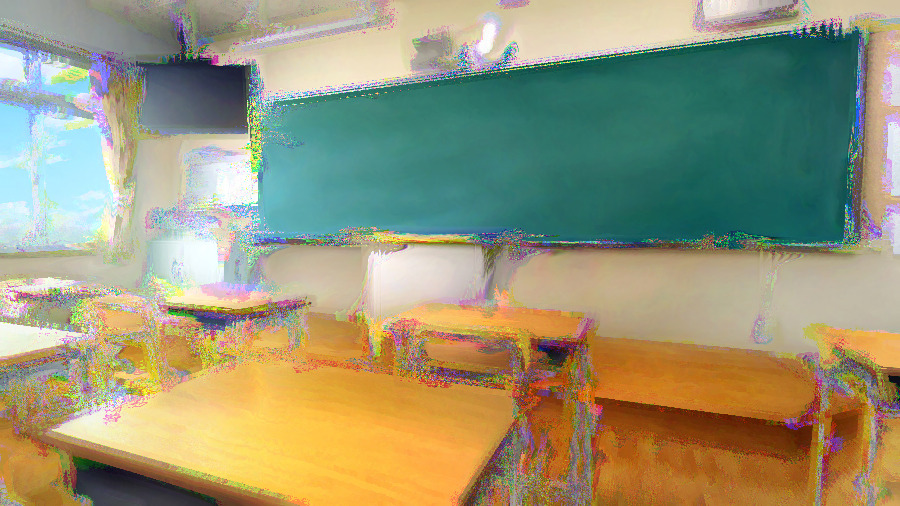
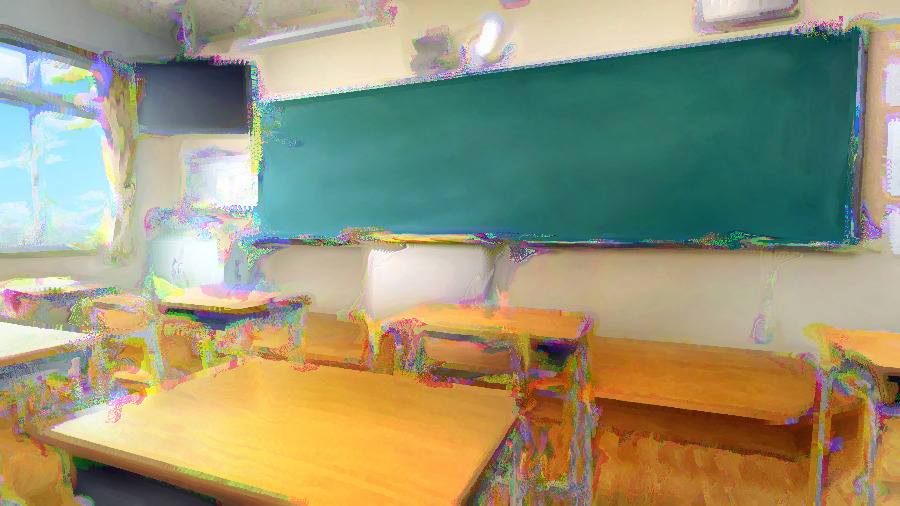
勾配計算を4タップに畳み、止まった画素を打ち切る
歩数を増やすほど滑らかになる一方、1歩ごとに3チャンネル分の勾配を
8タップずつ取り直していたため、そこが丸ごと負荷になっていた。

3x3 Sobelは、バイリニア補間を使えば4タップで計算できる。
(±0.5, ±0.5)のタップはそれぞれ2x2の平均になるので、
  gx = (右上 + 右下) - (左上 + 左下)
  gy = (左下 + 右下) - (左上 + 右上)
を展開するとちょうどSobel/4のカーネルと一致する。タップ数が半分になり、
実測でも約2倍速くなった(既定設定で1画素179タップ→91タップ)。

ただし2x2の平均は1テクセル分の幅しか無いので、検出半径を広げると
平滑化が足りずに目に見えてざらつく。検出半径が1pxを超える場合は
従来の8タップ版に戻す。切り替え点では両者が一致するので絵は飛ばない。

あわせて、勾配が無い画素で歩行ループを打ち切るようにした。向きが
決まらない画素は1歩も動かず、位置が変わらない以上、次に取り直す勾配も
同じ値になる。残りのステップは何も起こさないので省いてよい(結果は不変)。
平坦な塗りが多い絵ほど効く。フィルタの中心タップも変位先の値を
使い回して1タップ減らした。

浮いたぶんをステップ数に回せるので、既定のステップ数を4から8に上げた。

- テストを4件追加(33件)
  - 4タップ版が画素の中心で8タップSobelと一致すること
  - 検出半径を広げたら8タップ版に戻ること
  - 勾配が無い場所は歩数によらず動かないこと(打ち切りの前提)
  - タップ位置としきい値がHLSLとPythonで揃っていること
- READMEに強度とステップ数の関係(1歩3〜4px以下)とタップ数の表を追加

Claude-Session: https://claude.ai/code/session_01FN16Lgc7DE2ATpBYX1xFrf

diff --git a/tools/reference/crosschroma.py b/tools/reference/crosschroma.py
@@ -33,6 +33,25 @@ OFFSETS = [(-1, -1), (0, -1), (1, -1), (-1, 0), (0, 0), (1, 0), (-1, 1), (0, 1),
 SOBEL_X = [-1.0, 0.0, 1.0, -2.0, 0.0, 2.0, -1.0, 0.0, 1.0]
 SOBEL_Y = [-1.0, -2.0, -1.0, 0.0, 0.0, 0.0, 1.0, 2.0, 1.0]
 
+# 3x3 Sobelは、バイリニア補間を使うと4タップで計算できる。
+# (±0.5, ±0.5) のタップは 2x2 の平均になるので、展開すると
+#   gx = (右上 + 右下) - (左上 + 左下)
+#   gy = (左下 + 右下) - (左上 + 右上)
+# がちょうど Sobel/4 のカーネルと一致する。
+DIAGONALS = [(-0.5, -0.5), (0.5, -0.5), (-0.5, 0.5), (0.5, 0.5)]
+
+# 4タップ版が使える検出半径の上限。
+# 2x2の平均は1テクセル分の幅しか無いので、タップを広げると平滑化が足りずにざらつく。
+# 半径1pxなら、画素の中心で見るかぎり8タップ版と一致する(切り替えても絵は飛ばない)。
+# 歩いている途中の半端な位置では、タップの広がりが±0.5テクセルぶん狭いので
+# 輪郭の効く範囲がわずかに狭くなるが、見た目の差は出ない。
+FAST_GRADIENT_MAX_RADIUS = 1.0
+
+# 勾配がこれ以下だと向きが決まらないので、その画素は1歩も動かない。
+# 動かなければ位置も変わらず、次に取り直す勾配も同じ値になる。
+# HLSL側はそこでループを抜ける(結果は変わらない)。
+GRADIENT_EPSILON = 1e-5
+
 BORDER_CLAMP = "clamp"
 BORDER_TRANSPARENT = "transparent"
 
@@ -45,7 +64,7 @@ class CrossChromaParams:
 
     intensity: float = 20.0          # 変位量 (px)
     angle_deg: float = 90.0          # 勾配ベクトルの回転角 (度)。90で輪郭に沿う
-    steps: int = 4                   # 変位を何歩に分けて進めるか (多いほど滑らか)
+    steps: int = 8                   # 変位を何歩に分けて進めるか (多いほど滑らか)
     iterations: int = 1              # エフェクト全体を繰り返す回数
     edge_radius: float = 1.0         # 輪郭検出の半径 (px)
     edge_gain: float = 1.0           # 輪郭の感度
@@ -145,12 +164,49 @@ def sample_channel(premul, x, y, border, channel: int, fallback: np.ndarray) -> 
     return np.where(valid, select_channel(unpremultiply(c), channel), fallback)
 
 
-def channel_gradient(premul, x, y, border, channel: int, fallback, edge_radius: float):
-    """HLSLのChannelGradient相当。任意の位置で1チャンネル分のSobel勾配を求める。
+def use_fast_gradient(edge_radius: float) -> bool:
+    """4タップ版の勾配を使える半径か。"""
+    return edge_radius <= FAST_GRADIENT_MAX_RADIUS
 
-    mainの勾配計算は1組のタップからR/G/B/輝度をまとめて出すが、
+
+def signal_gradient(premul, x, y, border, edge_radius: float, fallback):
+    """HLSLのSignalGradient相当。R/G/B/輝度の勾配を1組のタップからまとめて求める。"""
+    if use_fast_gradient(edge_radius):
+        a, b, c, d = [
+            sample_signals(premul, x + ox * edge_radius, y + oy * edge_radius, border, fallback)
+            for ox, oy in DIAGONALS
+        ]
+        return (b + d) - (a + c), (c + d) - (a + b)
+
+    shape = np.shape(x) + (4,)
+    gx = np.zeros(shape, dtype=np.float32)
+    gy = np.zeros(shape, dtype=np.float32)
+    for i, (ox, oy) in enumerate(OFFSETS):
+        if SOBEL_X[i] == 0.0 and SOBEL_Y[i] == 0.0:
+            continue
+        tap = sample_signals(
+            premul, x + ox * edge_radius, y + oy * edge_radius, border, fallback)
+        if SOBEL_X[i] != 0.0:
+            gx += SOBEL_X[i] * tap
+        if SOBEL_Y[i] != 0.0:
+            gy += SOBEL_Y[i] * tap
+    return gx * 0.25, gy * 0.25
+
+
+def channel_gradient(premul, x, y, border, channel: int, fallback, edge_radius: float):
+    """HLSLのChannelGradient相当。任意の位置で1チャンネル分の勾配を求める。
+
+    SignalGradientは1組のタップからR/G/B/輝度をまとめて出すが、
     歩きながら勾配を取り直すときは必要な1チャンネルだけで足りる。
     """
+    if use_fast_gradient(edge_radius):
+        a, b, c, d = [
+            sample_channel(premul, x + ox * edge_radius, y + oy * edge_radius,
+                           border, channel, fallback)
+            for ox, oy in DIAGONALS
+        ]
+        return (b + d) - (a + c), (c + d) - (a + b)
+
     gx = np.zeros(np.shape(x), dtype=np.float32)
     gy = np.zeros(np.shape(x), dtype=np.float32)
     for i, (ox, oy) in enumerate(OFFSETS):
@@ -195,24 +251,8 @@ def apply_once(src_straight: np.ndarray, p: CrossChromaParams) -> np.ndarray:
     center_signals = signals(center)
 
     # --- 1. 1組のタップからR/G/B/輝度すべての勾配を求める --------------------
-    grad_x = np.zeros((h, w, 4), dtype=np.float32)
-    grad_y = np.zeros((h, w, 4), dtype=np.float32)
-    for i, (ox, oy) in enumerate(OFFSETS):
-        if SOBEL_X[i] == 0.0 and SOBEL_Y[i] == 0.0:
-            continue
-        tap = sample_signals(
-            premul,
-            xs + ox * p.edge_radius,
-            ys + oy * p.edge_radius,
-            p.border,
-            center_signals,
-        )
-        if SOBEL_X[i] != 0.0:
-            grad_x += SOBEL_X[i] * tap
-        if SOBEL_Y[i] != 0.0:
-            grad_y += SOBEL_Y[i] * tap
-    grad_x *= 0.25
-    grad_y *= 0.25
+    grad_x, grad_y = signal_gradient(
+        premul, xs, ys, p.border, p.edge_radius, center_signals)
 
     theta = math.radians(p.angle_deg)
     sin_t = math.sin(theta)
@@ -242,8 +282,10 @@ def apply_once(src_straight: np.ndarray, p: CrossChromaParams) -> np.ndarray:
                 gx, gy = channel_gradient(
                     premul, dx, dy, p.border, p.driver[c], driver_value, p.edge_radius)
 
+            # 向きが決まらない画素は移動量が0になる = そこで止まる
             length = np.sqrt(gx * gx + gy * gy)
-            inv_len = np.where(length > 1e-5, 1.0 / np.maximum(length, 1e-5), 0.0)
+            inv_len = np.where(
+                length > GRADIENT_EPSILON, 1.0 / np.maximum(length, GRADIENT_EPSILON), 0.0)
             dir_x = gx * inv_len
             dir_y = gy * inv_len
 
@@ -260,8 +302,9 @@ def apply_once(src_straight: np.ndarray, p: CrossChromaParams) -> np.ndarray:
 
         # --- 3. 他チャンネルの明るさでぼかし・膨張・収縮を制御 -----------------
         if p.filter_enabled:
+            # 中心のタップは変位先の値そのものなので、取り直さず value を使う
             taps = np.stack([
-                sample_channel(
+                value if (ox == 0 and oy == 0) else sample_channel(
                     premul,
                     dx + ox * p.filter_radius,
                     dy + oy * p.filter_radius,

diff --git a/tools/reference/test_crosschroma.py b/tools/reference/test_crosschroma.py
@@ -99,8 +99,11 @@ def test_displacement_follows_driver_channel():
     moved = cc.apply(img, cc.CrossChromaParams(
         intensity=6, angle_deg=0, driver=(cc.CH_G, cc.CH_G, cc.CH_G)))
     diff = np.abs(moved[..., cc.CH_R] - img[..., cc.CH_R])
-    assert diff.max() > 0.05, "Gの輪郭でRが動いていない"
-    # エッジから十分離れた場所は動かない
+
+    # Rは傾斜なので、値の差をそのまま移動距離(px)に直せる
+    slope = 1.0 / (w - 1)
+    assert diff.max() / slope > 1.0, f"Gの輪郭でRが動いていない ({diff.max() / slope:.2f}px)"
+    # 動くのは輪郭をまたぐ2列だけ。エッジから十分離れた場所は動かない
     assert diff[:, :w // 2 - 4].max() < 1e-5
     assert diff[:, w // 2 + 4:].max() < 1e-5
 
@@ -376,6 +379,75 @@ def test_iterations_do_nothing_when_mix_is_zero():
     assert np.allclose(out, img, atol=1e-6), np.abs(out - img).max()
 
 
+def test_fast_gradient_matches_sobel_at_texel_centers():
+    """4タップ版の勾配が、画素の中心では8タップSobelと一致すること。
+
+    検出半径1pxなら (±0.5, ±0.5) のタップがちょうど2x2の平均になり、
+    展開すると Sobel/4 のカーネルそのものになる。
+    ここが崩れると、切り替えのしきい値をまたいだ瞬間に絵が飛ぶ。
+    """
+    size = 40
+    rng = np.random.default_rng(11)
+    img = np.zeros((size, size, 4), dtype=np.float32)
+    img[..., :3] = rng.random((size, size, 3), dtype=np.float32)
+    img[..., 3] = 1.0
+
+    premul = cc.premultiply(img)
+    xs, ys = np.meshgrid(np.arange(size, dtype=np.float32), np.arange(size, dtype=np.float32))
+    center = cc.unpremultiply(cc.sample_premultiplied(premul, xs, ys, cc.BORDER_CLAMP))
+    inner = (slice(4, size - 4), slice(4, size - 4))
+
+    assert cc.use_fast_gradient(1.0), "半径1pxは4タップ版のはず"
+    original = cc.FAST_GRADIENT_MAX_RADIUS
+    try:
+        for channel in (cc.CH_R, cc.CH_G, cc.CH_B, cc.CH_LUMA, cc.CH_ONE):
+            fallback = cc.select_channel(center, channel)
+
+            cc.FAST_GRADIENT_MAX_RADIUS = 1.0
+            fast = cc.channel_gradient(premul, xs, ys, cc.BORDER_CLAMP, channel, fallback, 1.0)
+            cc.FAST_GRADIENT_MAX_RADIUS = 0.0  # 8タップ版を強制する
+            slow = cc.channel_gradient(premul, xs, ys, cc.BORDER_CLAMP, channel, fallback, 1.0)
+
+            for f, sl, axis in zip(fast, slow, "xy"):
+                assert np.allclose(f[inner], sl[inner], atol=1e-5), \
+                    (channel, axis, np.abs(f[inner] - sl[inner]).max())
+    finally:
+        cc.FAST_GRADIENT_MAX_RADIUS = original
+
+
+def test_wide_radius_keeps_the_eight_tap_gradient():
+    """検出半径を広げたら8タップ版に戻ること。
+
+    2x2の平均ではタップを広げたぶんの平滑化が足りず、目に見えてざらつく。
+    """
+    assert not cc.use_fast_gradient(cc.FAST_GRADIENT_MAX_RADIUS + 0.5)
+    assert "FastGradientMaxRadius" in HLSL
+    assert HLSL.count("edgeRadius <= FastGradientMaxRadius") == 2, \
+        "共有の勾配と歩行中の勾配の両方で切り替える"
+    assert "if (len <= GradientEpsilon)" in HLSL, "止まった画素の打ち切りが無い"
+
+
+def test_flow_stops_where_there_is_no_gradient():
+    """勾配が無い場所は1歩も動かないので、残りのステップを打ち切ってよい。
+
+    向きが決まらない画素は移動量が0になり、位置が変わらない以上
+    次に取り直す勾配も同じ値になる。HLSL側はここでループを抜けている。
+    打ち切りが結果を変えないことは、歩数を変えても絵が変わらないことで確かめられる。
+    """
+    flat = solid(24, 24, (0.3, 0.6, 0.9))
+    for steps in (1, 8, 32):
+        out = cc.apply(flat, cc.CrossChromaParams(intensity=40, steps=steps))
+        assert np.allclose(out, flat, atol=1e-6), (steps, np.abs(out - flat).max())
+
+    # 平坦な部分を含む絵でも、歩数を増やした結果がそこだけ変わらないこと
+    img = solid(32, 32, (0.2, 0.2, 0.2))
+    img[:, 16:, cc.CH_G] = 1.0          # 右半分に輪郭
+    flat_area = (slice(None), slice(0, 12))
+    few = cc.apply(img, cc.CrossChromaParams(intensity=20, steps=2))
+    many = cc.apply(img, cc.CrossChromaParams(intensity=20, steps=32))
+    assert np.allclose(few[flat_area], many[flat_area], atol=1e-6)
+
+
 # ---------------------------------------------------------------------------
 # 実装間の整合性 (HLSL / C# / Python)
 # ---------------------------------------------------------------------------
@@ -472,6 +544,21 @@ def test_sobel_and_offsets_match_python():
     assert offsets == [(float(x), float(y)) for x, y in cc.OFFSETS]
 
 
+def test_gradient_constants_match_python():
+    """4タップ版のタップ位置と、切り替え/打ち切りのしきい値が3実装で揃っているか。"""
+    body = re.search(r"static const float2 Diagonals\[4\] =\s*\{(.*?)\};", HLSL, re.S)
+    assert body, "Diagonals が見つからない"
+    diagonals = [(float(x), float(y)) for x, y in
+                 re.findall(r"float2\(\s*(-?[\d.]+)f?,\s*(-?[\d.]+)f?\)", body.group(1))]
+    assert diagonals == [(float(x), float(y)) for x, y in cc.DIAGONALS], diagonals
+
+    for name, value in (("FastGradientMaxRadius", cc.FAST_GRADIENT_MAX_RADIUS),
+                        ("GradientEpsilon", cc.GRADIENT_EPSILON)):
+        found = re.search(rf"static const float {name} = ([\d.e-]+)f;", HLSL)
+        assert found, name
+        assert float(found.group(1)) == value, (name, found.group(1), value)
+
+
 def test_luma_weights_match_python():
     body = re.search(r"LumaWeights = float3\(([^)]*)\)", HLSL)
     assert body
@@ -519,6 +606,12 @@ def test_step_count_is_wired_from_the_ui():
 
     assert re.search(r"StepCount = .*item\.Steps\.GetValue", PROCESSOR_CS), \
         "ステップ数がシェーダーのパラメーターに渡っていない"
+
+    # UIの既定値とPython側の既定値を揃えておく(サンプル画像が実機と食い違わないように)
+    default = re.search(r"public Animation Steps \{ get; \} = new Animation\((\d+),", EFFECT_CS)
+    assert default, "Steps の既定値が読めない"
+    assert int(default.group(1)) == cc.CrossChromaParams().steps, \
+        (default.group(1), cc.CrossChromaParams().steps)
 
 
 def test_iterations_is_handled_outside_the_shader():

diff --git a/src/Sa_CrossChroma/CrossChromaEffect.cs b/src/Sa_CrossChroma/CrossChromaEffect.cs
@@ -34,8 +34,8 @@ public class CrossChromaEffect : VideoEffectBase
 
     [Display(GroupName = "変位", Name = "ステップ数",
         Description = "変位を何回に分けて進めるか。1歩ごとに進んだ先の輪郭を見直すので、増やすほど輪郭に沿った滑らかな曲線を描きます。移動量そのものは変わりません")]
-    [AnimationSlider("F0", "", 1, 16)]
-    public Animation Steps { get; } = new Animation(4, 1, 64);
+    [AnimationSlider("F0", "", 1, 32)]
+    public Animation Steps { get; } = new Animation(8, 1, 64);
 
     [Display(GroupName = "変位", Name = "組み合わせ", Description = "どのチャンネルをどのチャンネルの輪郭で変形させるか")]
     [EnumComboBox]

diff --git a/README.md b/README.md
@@ -48,6 +48,17 @@ Rの動き方はGの輪郭が決め、Gの動き方はBが決め、Bの動き方
    タップ位置は「検出半径」でスケールするので、半径を広げるとゆるやかな濃淡にも反応する。
    Sobelは1/4に正規化してあり、0→1のステップエッジで長さがちょうど1.0になる。
 
+   検出半径が1px以下のときは、**バイリニア補間を使って4タップで済ませる**。
+   `(±0.5, ±0.5)` のタップはそれぞれ2x2の平均になるので、
+
+   ```
+   gx = (右上 + 右下) - (左上 + 左下)
+   gy = (左下 + 右下) - (左上 + 右上)
+   ```
+
+   を展開するとちょうど Sobel/4 のカーネルと一致する。タップ数が半分になる。
+   半径を広げると2x2の平均では平滑化が足りずにざらつくので、そのときは8タップ版に戻す。
+
 2. **変位先まで歩く**（チャンネルごと）
    自分に割り当てられたドライバーチャンネルの勾配を使い、1歩あたり `強度 / ステップ数` ずつ進む。
 
@@ -64,6 +75,11 @@ Rの動き方はGの輪郭が決め、Gの動き方はBが決め、Bの動き方
    そのため **移動の合計量は変わらず、経路だけが直線から曲線になる**。
    輪郭が消えた場所では `amount` が0になるので、流れは勝手に止まる。
    ステップ数1なら従来どおりの「一発で飛ぶ」挙動。
+
+   勾配が無い画素はそもそも1歩も動けない。動かなければ位置も変わらず、
+   次に取り直す勾配も同じ値になる。つまり残りのステップは何も起こさないので、
+   そこでループを抜けている（結果は1ビットも変わらない）。
+   平坦な塗りが多い絵ほど、ここで大きく浮く。
 
 3. **変位先でサンプリングする**
    `自分のチャンネル` の値だけを変位先から拾う。アルファは動かさないので、
@@ -97,7 +113,7 @@ C#側では同じエフェクトを反復回数ぶん数珠つなぎにしてい
 |---|---|---|
 | 強度 | 20px | 輪郭に沿って色をずらす量 |
 | 角度 | 90° | 0°で輪郭を横切る向き、90°で輪郭に沿う向き |
-| ステップ数 | 4 | 変位を何回に分けて進めるか。増やすほど滑らかになるが、そのぶん重くなる（移動量は変わらない） |
+| ステップ数 | 8 | 変位を何回に分けて進めるか。増やすほど滑らかになるが、そのぶん重くなる（移動量は変わらない） |
 | 組み合わせ | 順回転 | `順回転 R←G←B←R` / `逆回転` / `R⇔G交換` / `G⇔B交換` / `B⇔R交換` / `輝度` / `カスタム` |
 | R ← / G ← / B ← | G / B / R | 「カスタム」のとき、各チャンネルを変形させるチャンネル |
 
@@ -127,13 +143,36 @@ C#側では同じエフェクトを反復回数ぶん数珠つなぎにしてい
 | 反復回数 | 1回 | エフェクト全体を繰り返す回数（最大8）。変形した結果をさらに変形するので効果が積み重なる |
 | 適用量 | 100% | 元の映像とのブレンド量。反復回数が2以上のときは1回ごとに適用される |
 
+### 強度とステップ数の関係
+
+**1歩あたりの移動量が3〜4pxを超えると破綻する。**
+歩幅が大きすぎると隣り合う画素の経路がばらばらな方向へ飛んでいき、
+輪郭に沿った流れではなくザラザラのノイズになる。
+
+```
+ステップ数 ≧ 強度 ÷ 4
+```
+
+既定のステップ数8は強度20〜30px向け。強度を上げるならステップ数も一緒に上げること。
+
 ### 負荷について
 
-1画素あたりのサンプリング数は、ざっくり **`(8 × ステップ数 + 3 + フィルタ24) × 反復回数`**。
+1画素あたりのサンプリング数は
+**`勾配タップ数 × (3 × ステップ数 − 2) + 3 + フィルタ24`**（これに反復回数が掛かる）。
+勾配タップ数は検出半径1px以下なら4、それ以上なら8。
 
-- ぼかしも膨張・収縮も0%のときは、フィルタ処理ごとシェーダー内でスキップされる（36タップ→12タップ）
-- ステップ数は1歩ごとに3チャンネル分の勾配を取り直すので、増やすとそのまま比例して重くなる。
+| 設定 | タップ数 |
+|---|---|
+| ステップ数1・変調なし | 7 |
+| ステップ数8（既定）・変調なし | 91 |
+| ステップ数8・変調あり | 115 |
+| ステップ数64（強度240px向け）・変調なし | 763 |
+
+- ぼかしも膨張・収縮も0%のときは、フィルタ処理ごとシェーダー内でスキップされる（24タップぶん）
+- ステップ数は1歩ごとに3チャンネル分の勾配を取り直すので、増やすとほぼ比例して重くなる。
   1歩目だけは手順1の勾配を使い回すため、ステップ数1なら追加コストはゼロ
+- 検出半径を1pxより大きくすると勾配タップが倍になる。半径を上げるより
+  「感度」や「ガンマ」で調整できないか先に試すとよい
 - 反復回数はパス数がそのまま増える。軽く済ませたいときは、反復を増やすより
   ステップ数を上げるほうが安い
 
@@ -217,7 +256,9 @@ python3 tools/reference/render_samples.py docs/samples/00-source.jpg docs/sample
 ## 動作確認について
 
 - アルゴリズム（変位・ステップ分割・反復・回転・変調・アルファの扱い）は、
-  CPUリファレンス実装に対する29件のテストと、上のサンプル画像のレンダリングで確認している
+  CPUリファレンス実装に対する33件のテストと、上のサンプル画像のレンダリングで確認している
+- 4タップ版の勾配が8タップSobelと一致すること、止まった画素の打ち切りが結果を変えないことも
+  テストで押さえている（高速化のつもりで絵を変えてしまわないように）
 - HLSL / C# / Python の3実装が食い違っていないことは、テストで機械的に検証している
 - **C#とHLSLの実ビルド、およびYMM4上での動作確認は、Windows + YMM4本体が必要なため未実施**。
   最初のビルド時はYMM4のバージョンとの整合（`TargetFramework`、参照DLL）を確認してほしい
